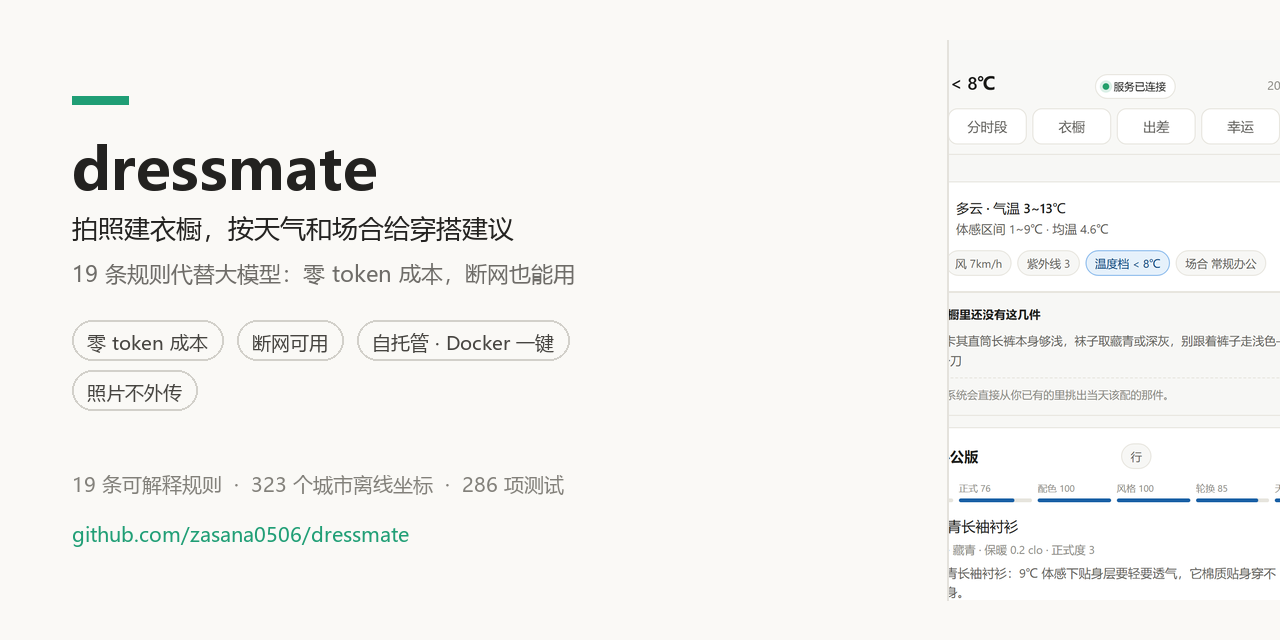
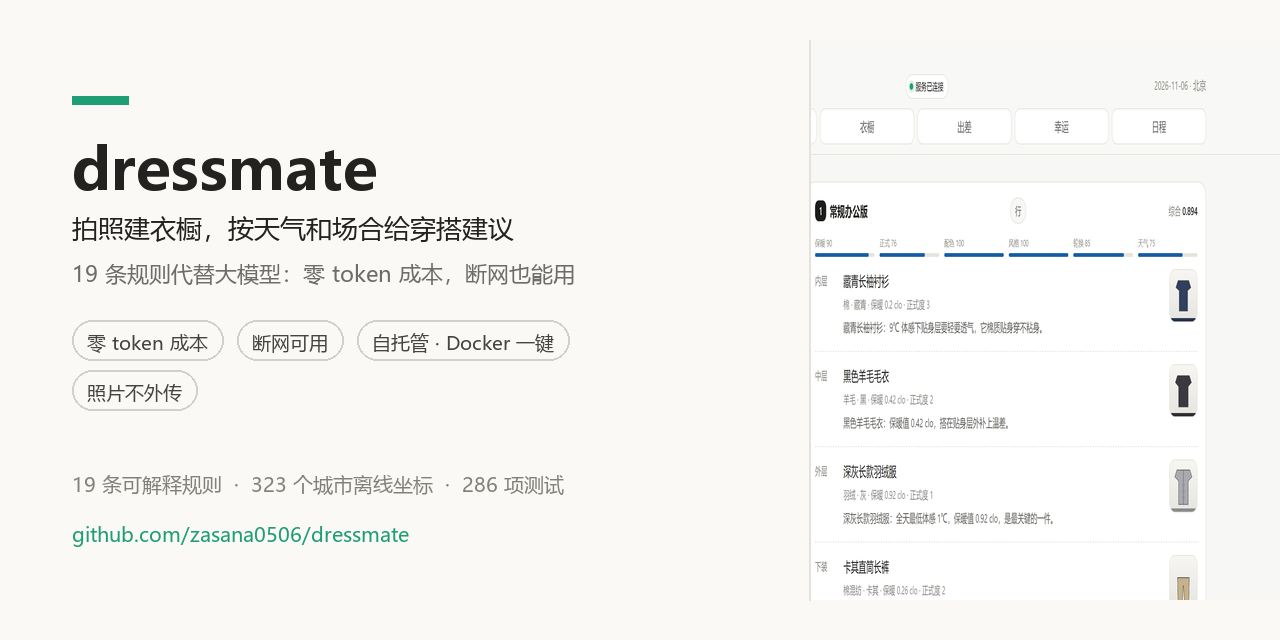
加宽屏适配：电脑上不再是一条窄柱
界面本来是按手机做的（站在衣柜前用），容器锁在 560px，
整个页面还没有一个 @media 查询。1440px 的屏幕中间杵着一条
窄柱，两边全是空白，看着像网页加载失败。

现在 900px 以上：
- 容器放宽到 1080px
- 分左右两栏：左边天气和配件缺口，右边推荐方案
- 层次行改成「层位 | 名称+理由 | 照片」，照片在右、理由对齐
- 900px 以下自动退回单列，手机观感一点没变

实现上踩了个坑：先用 CSS Grid 分栏，结果行高是跨栏共享的，
右栏的推荐卡很高，把左栏的配件缺口顶到了屏幕外。
改成 flex 两栏才解决——flex 各栏独立，左栏多高都不影响右栏。

顺带：
- 分享卡片改用宽屏截图（横版配两栏布局更合适）
- 截图脚本同时抓手机版和桌面版两张
- 卡片贴图限制最大宽度，否则会盖住左侧文案
- 临时目录加进 .gitignore

diff --git a/web/index.html b/web/index.html
@@ -290,6 +290,49 @@
   .lrow{display:flex;align-items:center;gap:10px;background:var(--bg);border:1px solid var(--line);
     border-radius:12px;padding:9px 12px;margin-top:12px}
   .lrow .ltext{flex:1;font-size:12px;color:var(--ink2);line-height:1.5}
+
+  /* ---------- 宽屏适配 ----------
+     这个界面本来是按手机做的（站在衣柜前用），所以容器锁在 560px。
+     但很多人在电脑上用——1600px 的屏幕中间杵着一条窄柱，
+     两边全是空白，看着像网页加载失败。
+
+     所以宽屏时：容器放宽、推荐卡并排、字号微调。
+     手机上的观感一点没变。 */
+  /* 窄屏（手机）：两栏退回到上下堆叠，看起来还是原来的一列 */
+  @media (max-width: 899px){
+    #content{display:block}
+    .lcol > .card{margin-bottom:12px}
+    .rcol > .card{margin-bottom:14px}
+  }
+  @media (min-width: 900px){
+    .wrap{max-width:1080px}
+    /* 天气条和配件缺口靠左，推荐卡并排到右边 */
+    /* 用 flex 而不是 grid：grid 的行高是跨栏共享的，
+       右栏的推荐卡很高会把左栏的内容顶到屏幕外。
+       flex 两栏各管各的，左栏多高都不会影响右栏。 */
+    #content{display:flex;gap:18px;align-items:flex-start}
+    .lcol{flex:0 0 340px;min-width:0}
+    .rcol{flex:1;min-width:0}
+    .lcol > .card{margin-bottom:12px}
+    .rcol > .card{margin-bottom:14px}
+    /* gapbox 外面包了一层 .card，内部样式要跟着调 */
+    .gapcard .gapbox{border:0;background:transparent;padding:0;margin:0}
+    /* 层次行在宽屏里可以两列——每行是「照片 + 名称 + 理由」，单列太长了 */
+    .card.rk .layer{display:grid;grid-template-columns:44px 1fr auto;
+      grid-template-areas:"slot main photo" "slot reason photo";
+      column-gap:12px;row-gap:2px;align-items:start}
+    .card.rk .lslot{grid-area:slot}
+    .card.rk .lmain{grid-area:main}
+    .card.rk .lreason{grid-area:reason}
+    .card.rk .lphoto{grid-area:photo}
+    .lreason{font-size:13px}
+    /* 评分条更宽一点好看 */
+    .bars{gap:10px}
+  }
+  /* 超宽屏别让内容拉得太散 */
+  @media (min-width: 1400px){
+    .wrap{max-width:1180px}
+  }
 </style>
 </head>
 <body>
@@ -727,7 +770,9 @@ function renderToday(){
   document.getElementById("title").textContent = `今日穿搭 · ${band.label}`;
 
   const hot = w.daily.tmax >= 28, cold = w.feel_min < 8;
-  let html = "";
+  // 分两栏：左栏是天气/缺口这类「上下文」，右栏是推荐方案本身。
+  // 手机上两栏顺序堆叠（看起来还是一列），宽屏上并排。
+  let htmlL = "", html = "";
   // 开启了幸运色时，在推荐顶部带一条轻提示，不抢保暖和场合的信息
   if(d.luck && d.luck.ok){
     const hp = d.luck.health || {}, so = d.luck.social || {}, tv = d.luck.travel || {},
@@ -738,7 +783,7 @@ function renderToday(){
     if(tv.flag) tags += `<span class="ltag travel">出行注意</span>`;
     if(st.flag) tags += `<span class="ltag study">文昌 ${esc((st.stars||[]).join("、"))}</span>`;
     if(st.careful) tags += `<span class="ltag">文书多核一遍</span>`;
-    html += `<div class="card" style="padding:12px 15px">
+    htmlL += `<div class="card" style="padding:12px 15px">
       <div style="display:flex;align-items:center;gap:9px;flex-wrap:wrap;font-size:13px">
         <span style="font-size:11px;color:var(--ink3)">今日幸运</span>
         <b>${esc(d.luck.star)}</b>
@@ -749,7 +794,7 @@ function renderToday(){
       ${d.warmth_relaxed?`<div class="ltags"><span class="ltag">按加严标准配不出整套，已退回常规保暖</span></div>`:""}
     </div>`;
   }
-  html += `<div class="card">
+  htmlL += `<div class="card wxcard">
     <div class="wx">
       <div><span class="wxt">${Math.round(w.current.apparent ?? w.daily.tmax)}</span><span class="wxu">℃ 体感</span></div>
       <div class="wxm">
@@ -779,11 +824,11 @@ function renderToday(){
     const opt = egaps.filter(n=>n.level!=="required");
     const row = (n, cls) => `<div class="${cls}"><i>${cls==="greq"?"要补":"可选"}</i>
         <b>${esc(n.name)}</b> · ${esc(n.color_hint||"")}</div>`;
-    html += `<div class="gapbox"><b>配件缺口 · 衣橱里还没有这几件</b>
+    htmlL += `<div class="card gapcard"><div class="gapbox"><b>配件缺口 · 衣橱里还没有这几件</b>
       ${req.map(n=>row(n,"greq")).join("")}
       ${opt.map(n=>row(n,"gopt")).join("")}
       <div class="gfoot">录进衣橱后，系统会直接从你已有的里挑出当天该配的那件。</div>
-    </div>`;
+    </div></div>`;
   }
 
   if(!(d.recommendations||[]).length){
@@ -797,7 +842,7 @@ function renderToday(){
           <div class="lmeta">${esc(x.note)}</div>
         </div>
       </div>`).join("");
-    html += `<div class="card">
+    htmlL += `<div class="card gapcard2">
       <div class="ch"><h2><span class="dot"></span>${gaps.length?`今天还差 ${gaps.length} 层`:"先把衣服传上来"}</h2>
         <span class="score">${gaps.length?"补齐就出整套":""}</span></div>
       ${gaps.length?`<div style="font-size:12px;color:var(--ink3);line-height:1.7;margin-bottom:4px">
@@ -811,7 +856,7 @@ function renderToday(){
   (d.recommendations||[]).forEach(r=>{
     const p = r.parts;
     const verdict = r.verdict ? `<span class="chip" style="${r.verdict==="行"?"":"border-color:#EF9F27;color:#633806"}">${esc(r.verdict)}</span>` : "";
-    html += `<div class="card">
+    html += `<div class="card rk">
       <div class="ch"><h2><span class="rank">${r.rank}</span>${esc(r.label)}</h2>
       ${verdict}<span class="score">综合 <b>${r.score.toFixed(3)}</b></span></div>
       <div class="bars">
@@ -857,7 +902,8 @@ function renderToday(){
   if(ctx.advice && ctx.advice.length){
     html += `<div class="note info">${ctx.advice.map(esc).join("；")}</div>`;
   }
-  document.getElementById("content").innerHTML = html;
+  document.getElementById("content").innerHTML =
+    `<div class="lcol">${htmlL}</div><div class="rcol">${html}</div>`;
 
   // 绑定必须在 innerHTML 之后，否则选不到节点
   document.querySelectorAll("#content [data-wear]").forEach(btn=>{

diff --git a/tools/make_shot.py b/tools/make_shot.py
@@ -29,7 +29,7 @@ ACCENT = (31, 158, 117)      # 绿
 MUTED = (110, 108, 104)
 
 
-def render(shot_path, out_dir):
+def render(shot_path, out_dir, wide_path=None):
     from PIL import Image, ImageDraw, ImageFont
 
     os.makedirs(out_dir, exist_ok=True)
@@ -62,6 +62,11 @@ def render(shot_path, out_dir):
     print(f"README 主图: {main_path}  {main.size[0]}x{main.size[1]}")
 
     # ---------- 2. 分享卡片：1280x640，左标题右截图 ----------
+    # 卡片是横版的，用宽屏截图（两栏布局）比手机竖版好看
+    if wide_path and os.path.exists(wide_path):
+        card_src = Image.open(wide_path).convert("RGB")
+    else:
+        card_src = shot
     W, H = 1280, 640
     card = Image.new("RGB", (W, H), PAPER)
     dr = ImageDraw.Draw(card)
@@ -93,12 +98,23 @@ def render(shot_path, out_dir):
     dr.text((x, 520), "github.com/zasana0506/dressmate",
             font=font(20), fill=ACCENT)
 
-    # 右侧：网页截图，放大后裁出推荐卡部分
-    src = shot.crop((0, 0, shot.width, min(shot.height, 1180)))
-    if src.width > 700:
-        left = (src.width - 700) // 2
-        src = src.crop((left, 0, left + 700, min(src.height, 1180)))
-    scale = (H - 80) / src.height
+    # 右侧：网页截图。宽屏图裁右栏（推荐卡），竖版图裁中间
+    src = card_src
+    if src.width > 1000:
+        # 宽屏：容器居中（1440 视口下 wrap 占 1080，左边留 180），
+        # 右栏从 180+340+18=538 开始，占视口 37% 处。
+        # 切 52% 会把推荐卡的左半边切掉，文字全被截断。
+        left = int(src.width * 0.355)
+        src = src.crop((left, 0, src.width, min(src.height, 1180)))
+    else:
+        src = src.crop((0, 0, src.width, min(src.height, 1180)))
+        if src.width > 700:
+            left = (src.width - 700) // 2
+            src = src.crop((left, 0, left + 700, min(src.height, 1180)))
+    # 缩放到卡片高度，同时限制最大宽度——
+    # 宽屏图裁出来很宽，直接按高度缩会把左边文案全盖住
+    MAX_IMG_W = 470
+    scale = min((H - 80) / src.height, MAX_IMG_W / src.width)
     src = src.resize((max(1, int(src.width * scale)), H - 80), Image.LANCZOS)
     card.paste(src, (W - src.width - 0, 40))
     # 左侧与截图交界处加一条淡分隔
@@ -113,14 +129,15 @@ def render(shot_path, out_dir):
 
 def main():
     if len(sys.argv) < 3:
-        print("用法：python tools/make_shot.py <截图文件> <输出目录>")
+        print("用法：python tools/make_shot.py <截图文件> <输出目录> [宽屏截图]")
         return 2
     shot_path = sys.argv[1]
     out_dir = sys.argv[2]
+    wide = sys.argv[3] if len(sys.argv) > 3 else None
     if not os.path.exists(shot_path):
         print(f"找不到截图：{shot_path}")
         return 1
-    render(shot_path, out_dir)
+    render(shot_path, out_dir, wide)
     return 0
 
 
